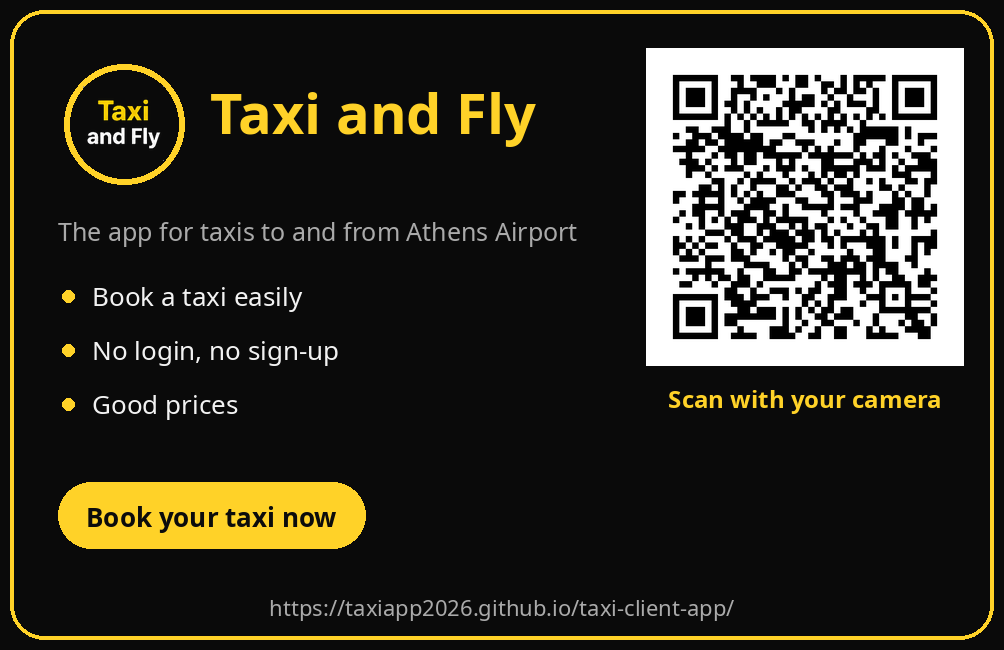
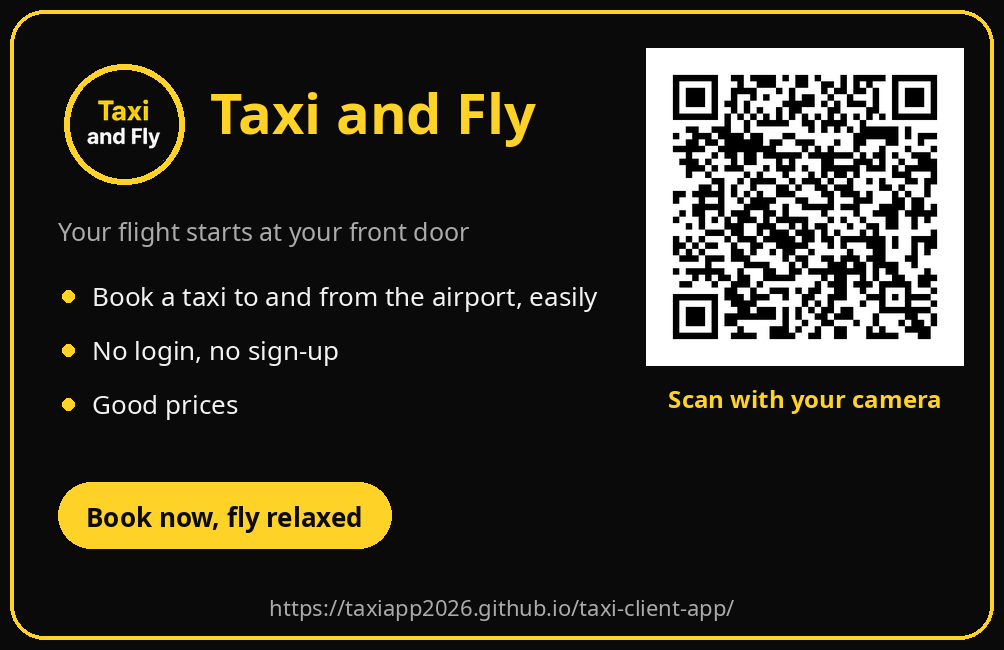
Use the flight-starts-at-your-door tagline on the card

Changed region(s): [[0.2161, 0.4308, 0.5867, 0.4923], [0.1544, 0.7385, 0.4014, 0.8615], [0.0618, 0.3385, 0.5867, 0.4]]

diff --git a/ads/print/make_card.py b/ads/print/make_card.py
@@ -36,28 +36,28 @@ EL = {
     "out": OUT / "taxi-and-fly-card-el.png",
     "art": ART / "taxi_and_fly_karta_el.png",
     "title": "Taxi and Fly",
-    "subtitle": "Η εφαρμογή για ταξί από και προς το αεροδρόμιο Αθηνών",
+    "subtitle": "Η πτήση σου ξεκινάει από την πόρτα σου",
     "bullets": [
-        "Κλείνεις εύκολα ταξί",
+        "Κλείνεις εύκολα ταξί από και προς το αεροδρόμιο",
         "Χωρίς login, χωρίς εγγραφή",
         "Καλές τιμές",
     ],
     "cta": "Σκάναρε με την κάμερα",
-    "pill": "Κλείσε το ταξί σου τώρα",
+    "pill": "Κλείσε τώρα, πέτα ήσυχος",
 }
 
 EN = {
     "out": OUT / "taxi-and-fly-card-en.png",
     "art": ART / "taxi_and_fly_card_en.png",
     "title": "Taxi and Fly",
-    "subtitle": "The app for taxis to and from Athens Airport",
+    "subtitle": "Your flight starts at your front door",
     "bullets": [
-        "Book a taxi easily",
+        "Book a taxi to and from the airport, easily",
         "No login, no sign-up",
         "Good prices",
     ],
     "cta": "Scan with your camera",
-    "pill": "Book your taxi now",
+    "pill": "Book now, fly relaxed",
 }
 
 
